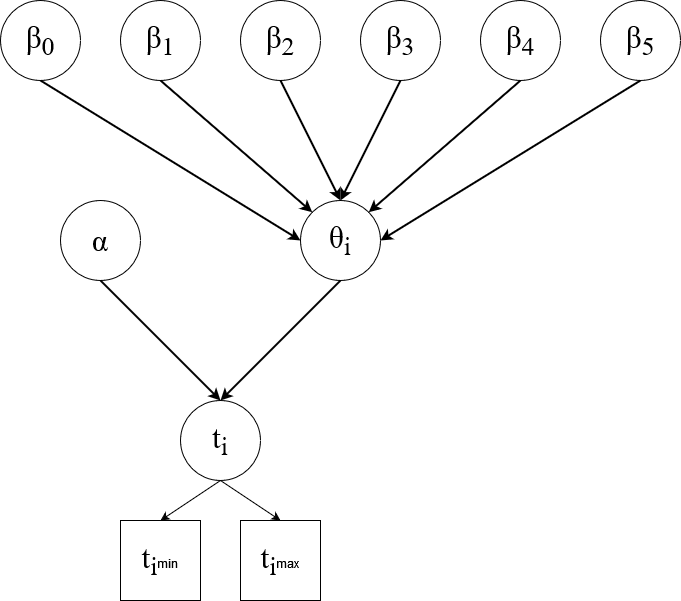
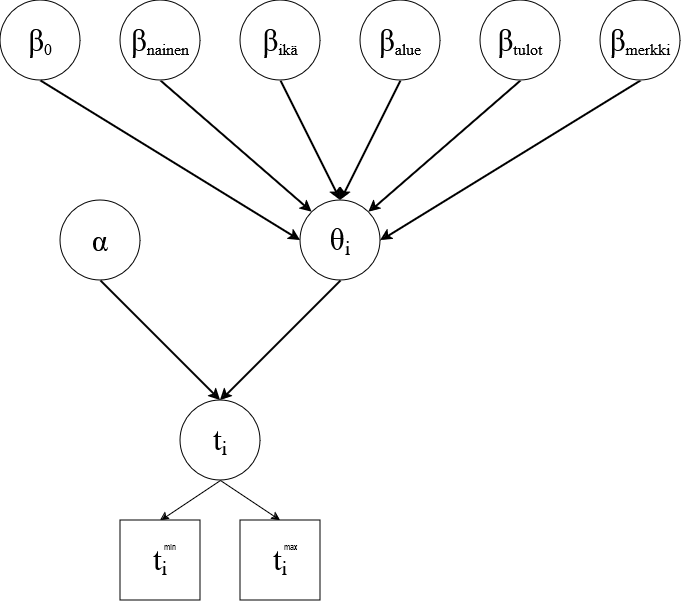
Demo 6 ja HT

diff --git a/Bayes2/HT/Bayes_dag.drawio.html b/Bayes2/HT/Bayes_dag.drawio.html
@@ -1,0 +1,12 @@
+<!--[if IE]><meta http-equiv="X-UA-Compatible" content="IE=5,IE=9" ><![endif]-->
+<!DOCTYPE html>
+<html>
+<head>
+<title>Bayes_dag.drawio.html</title>
+<meta charset="utf-8"/>
+</head>
+<body>
+<div class="mxgraph" style="max-width:100%;border:1px solid transparent;" data-mxgraph="{&quot;highlight&quot;:&quot;#0000ff&quot;,&quot;nav&quot;:true,&quot;resize&quot;:true,&quot;xml&quot;:&quot;&lt;mxfile host=\&quot;app.diagrams.net\&quot; agent=\&quot;Mozilla/5.0 (Windows NT 10.0; Win64; x64; rv:133.0) Gecko/20100101 Firefox/133.0\&quot; scale=\&quot;1\&quot; border=\&quot;0\&quot; version=\&quot;24.9.1\&quot;&gt;&lt;diagram name=\&quot;Sivu-1\&quot; id=\&quot;CsdZyohZoPk9OfCX-mI1\&quot;&gt;&lt;mxGraphModel dx=\&quot;677\&quot; dy=\&quot;416\&quot; grid=\&quot;1\&quot; gridSize=\&quot;10\&quot; guides=\&quot;1\&quot; tooltips=\&quot;1\&quot; connect=\&quot;1\&quot; arrows=\&quot;1\&quot; fold=\&quot;1\&quot; page=\&quot;1\&quot; pageScale=\&quot;1\&quot; pageWidth=\&quot;827\&quot; pageHeight=\&quot;1169\&quot; math=\&quot;0\&quot; shadow=\&quot;0\&quot;&gt;&lt;root&gt;&lt;mxCell id=\&quot;0\&quot;/&gt;&lt;mxCell id=\&quot;1\&quot; parent=\&quot;0\&quot;/&gt;&lt;mxCell id=\&quot;7M6o0OQzYcCYGEPYCa-u-2\&quot; value=\&quot;&amp;lt;font face=&amp;quot;Times New Roman&amp;quot; style=&amp;quot;font-size: 31px;&amp;quot;&amp;gt;β&amp;lt;/font&amp;gt;&amp;lt;font style=&amp;quot;font-size: 19px;&amp;quot; face=&amp;quot;Times New Roman&amp;quot;&amp;gt;&amp;lt;sub&amp;gt;0&amp;lt;/sub&amp;gt;&amp;lt;/font&amp;gt;\&quot; style=\&quot;ellipse;whiteSpace=wrap;html=1;aspect=fixed;\&quot; parent=\&quot;1\&quot; vertex=\&quot;1\&quot;&gt;&lt;mxGeometry x=\&quot;80\&quot; y=\&quot;120\&quot; width=\&quot;80\&quot; height=\&quot;80\&quot; as=\&quot;geometry\&quot;/&gt;&lt;/mxCell&gt;&lt;mxCell id=\&quot;7M6o0OQzYcCYGEPYCa-u-7\&quot; value=\&quot;&amp;lt;font style=&amp;quot;font-size: 31px;&amp;quot; face=&amp;quot;Times New Roman&amp;quot;&amp;gt;θ&amp;lt;/font&amp;gt;&amp;lt;font style=&amp;quot;font-size: 24px;&amp;quot; face=&amp;quot;Times New Roman&amp;quot;&amp;gt;&amp;lt;sub&amp;gt;i&amp;lt;/sub&amp;gt;&amp;lt;/font&amp;gt;\&quot; style=\&quot;ellipse;whiteSpace=wrap;html=1;aspect=fixed;\&quot; parent=\&quot;1\&quot; vertex=\&quot;1\&quot;&gt;&lt;mxGeometry x=\&quot;380\&quot; y=\&quot;320\&quot; width=\&quot;80\&quot; height=\&quot;80\&quot; as=\&quot;geometry\&quot;/&gt;&lt;/mxCell&gt;&lt;mxCell id=\&quot;7M6o0OQzYcCYGEPYCa-u-8\&quot; value=\&quot;&amp;lt;font face=&amp;quot;Times New Roman&amp;quot; style=&amp;quot;font-size: 31px;&amp;quot;&amp;gt;α&amp;lt;/font&amp;gt;\&quot; style=\&quot;ellipse;whiteSpace=wrap;html=1;aspect=fixed;\&quot; parent=\&quot;1\&quot; vertex=\&quot;1\&quot;&gt;&lt;mxGeometry x=\&quot;140\&quot; y=\&quot;320\&quot; width=\&quot;80\&quot; height=\&quot;80\&quot; as=\&quot;geometry\&quot;/&gt;&lt;/mxCell&gt;&lt;mxCell id=\&quot;7M6o0OQzYcCYGEPYCa-u-9\&quot; value=\&quot;&amp;lt;font style=&amp;quot;font-size: 31px;&amp;quot; face=&amp;quot;Times New Roman&amp;quot;&amp;gt;t&amp;lt;/font&amp;gt;&amp;lt;font style=&amp;quot;font-size: 24px;&amp;quot; face=&amp;quot;Times New Roman&amp;quot;&amp;gt;&amp;lt;sub&amp;gt;i&amp;lt;/sub&amp;gt;&amp;lt;/font&amp;gt;\&quot; style=\&quot;ellipse;whiteSpace=wrap;html=1;aspect=fixed;\&quot; parent=\&quot;1\&quot; vertex=\&quot;1\&quot;&gt;&lt;mxGeometry x=\&quot;260\&quot; y=\&quot;520\&quot; width=\&quot;80\&quot; height=\&quot;80\&quot; as=\&quot;geometry\&quot;/&gt;&lt;/mxCell&gt;&lt;mxCell id=\&quot;7M6o0OQzYcCYGEPYCa-u-11\&quot; value=\&quot;\&quot; style=\&quot;endArrow=classic;html=1;rounded=0;exitX=0.5;exitY=1;exitDx=0;exitDy=0;entryX=0;entryY=0.5;entryDx=0;entryDy=0;strokeWidth=2;\&quot; parent=\&quot;1\&quot; source=\&quot;7M6o0OQzYcCYGEPYCa-u-2\&quot; target=\&quot;7M6o0OQzYcCYGEPYCa-u-7\&quot; edge=\&quot;1\&quot;&gt;&lt;mxGeometry width=\&quot;50\&quot; height=\&quot;50\&quot; relative=\&quot;1\&quot; as=\&quot;geometry\&quot;&gt;&lt;mxPoint x=\&quot;390\&quot; y=\&quot;410\&quot; as=\&quot;sourcePoint\&quot;/&gt;&lt;mxPoint x=\&quot;440\&quot; y=\&quot;360\&quot; as=\&quot;targetPoint\&quot;/&gt;&lt;/mxGeometry&gt;&lt;/mxCell&gt;&lt;mxCell id=\&quot;7M6o0OQzYcCYGEPYCa-u-13\&quot; value=\&quot;\&quot; style=\&quot;endArrow=classic;html=1;rounded=0;entryX=0;entryY=0;entryDx=0;entryDy=0;exitX=0.5;exitY=1;exitDx=0;exitDy=0;strokeWidth=2;\&quot; parent=\&quot;1\&quot; source=\&quot;ZkPpFAJNjtpbtPeyBK7T-2\&quot; target=\&quot;7M6o0OQzYcCYGEPYCa-u-7\&quot; edge=\&quot;1\&quot;&gt;&lt;mxGeometry width=\&quot;50\&quot; height=\&quot;50\&quot; relative=\&quot;1\&quot; as=\&quot;geometry\&quot;&gt;&lt;mxPoint x=\&quot;160\&quot; y=\&quot;200\&quot; as=\&quot;sourcePoint\&quot;/&gt;&lt;mxPoint x=\&quot;440\&quot; y=\&quot;360\&quot; as=\&quot;targetPoint\&quot;/&gt;&lt;/mxGeometry&gt;&lt;/mxCell&gt;&lt;mxCell id=\&quot;7M6o0OQzYcCYGEPYCa-u-14\&quot; value=\&quot;\&quot; style=\&quot;endArrow=classic;html=1;rounded=0;entryX=0.5;entryY=0;entryDx=0;entryDy=0;exitX=0.5;exitY=1;exitDx=0;exitDy=0;strokeWidth=2;\&quot; parent=\&quot;1\&quot; target=\&quot;7M6o0OQzYcCYGEPYCa-u-7\&quot; edge=\&quot;1\&quot;&gt;&lt;mxGeometry width=\&quot;50\&quot; height=\&quot;50\&quot; relative=\&quot;1\&quot; as=\&quot;geometry\&quot;&gt;&lt;mxPoint x=\&quot;360\&quot; y=\&quot;200\&quot; as=\&quot;sourcePoint\&quot;/&gt;&lt;mxPoint x=\&quot;506\&quot; y=\&quot;332\&quot; as=\&quot;targetPoint\&quot;/&gt;&lt;/mxGeometry&gt;&lt;/mxCell&gt;&lt;mxCell id=\&quot;7M6o0OQzYcCYGEPYCa-u-16\&quot; value=\&quot;\&quot; style=\&quot;endArrow=classic;html=1;rounded=0;exitX=0.5;exitY=1;exitDx=0;exitDy=0;entryX=0.5;entryY=0;entryDx=0;entryDy=0;strokeWidth=2;\&quot; parent=\&quot;1\&quot; target=\&quot;7M6o0OQzYcCYGEPYCa-u-7\&quot; edge=\&quot;1\&quot;&gt;&lt;mxGeometry width=\&quot;50\&quot; height=\&quot;50\&quot; relative=\&quot;1\&quot; as=\&quot;geometry\&quot;&gt;&lt;mxPoint x=\&quot;480\&quot; y=\&quot;200\&quot; as=\&quot;sourcePoint\&quot;/&gt;&lt;mxPoint x=\&quot;440\&quot; y=\&quot;360\&quot; as=\&quot;targetPoint\&quot;/&gt;&lt;/mxGeometry&gt;&lt;/mxCell&gt;&lt;mxCell id=\&quot;7M6o0OQzYcCYGEPYCa-u-17\&quot; value=\&quot;\&quot; style=\&quot;endArrow=classic;html=1;rounded=0;entryX=1;entryY=0;entryDx=0;entryDy=0;exitX=0.5;exitY=1;exitDx=0;exitDy=0;strokeWidth=2;\&quot; parent=\&quot;1\&quot; target=\&quot;7M6o0OQzYcCYGEPYCa-u-7\&quot; edge=\&quot;1\&quot;&gt;&lt;mxGeometry width=\&quot;50\&quot; height=\&quot;50\&quot; relative=\&quot;1\&quot; as=\&quot;geometry\&quot;&gt;&lt;mxPoint x=\&quot;600\&quot; y=\&quot;200\&quot; as=\&quot;sourcePoint\&quot;/&gt;&lt;mxPoint x=\&quot;440\&quot; y=\&quot;360\&quot; as=\&quot;targetPoint\&quot;/&gt;&lt;/mxGeometry&gt;&lt;/mxCell&gt;&lt;mxCell id=\&quot;7M6o0OQzYcCYGEPYCa-u-18\&quot; value=\&quot;\&quot; style=\&quot;endArrow=classic;html=1;rounded=0;exitX=0.5;exitY=1;exitDx=0;exitDy=0;entryX=1;entryY=0.5;entryDx=0;entryDy=0;endSize=6;startSize=6;jumpSize=6;strokeWidth=2;endFill=1;\&quot; parent=\&quot;1\&quot; target=\&quot;7M6o0OQzYcCYGEPYCa-u-7\&quot; edge=\&quot;1\&quot;&gt;&lt;mxGeometry width=\&quot;50\&quot; height=\&quot;50\&quot; relative=\&quot;1\&quot; as=\&quot;geometry\&quot;&gt;&lt;mxPoint x=\&quot;720\&quot; y=\&quot;200\&quot; as=\&quot;sourcePoint\&quot;/&gt;&lt;mxPoint x=\&quot;440\&quot; y=\&quot;360\&quot; as=\&quot;targetPoint\&quot;/&gt;&lt;/mxGeometry&gt;&lt;/mxCell&gt;&lt;mxCell id=\&quot;7M6o0OQzYcCYGEPYCa-u-19\&quot; value=\&quot;\&quot; style=\&quot;endArrow=classic;html=1;rounded=0;exitX=0.5;exitY=1;exitDx=0;exitDy=0;entryX=0.5;entryY=0;entryDx=0;entryDy=0;strokeWidth=2;\&quot; parent=\&quot;1\&quot; source=\&quot;7M6o0OQzYcCYGEPYCa-u-8\&quot; target=\&quot;7M6o0OQzYcCYGEPYCa-u-9\&quot; edge=\&quot;1\&quot;&gt;&lt;mxGeometry width=\&quot;50\&quot; height=\&quot;50\&quot; relative=\&quot;1\&quot; as=\&quot;geometry\&quot;&gt;&lt;mxPoint x=\&quot;390\&quot; y=\&quot;410\&quot; as=\&quot;sourcePoint\&quot;/&gt;&lt;mxPoint x=\&quot;440\&quot; y=\&quot;360\&quot; as=\&quot;targetPoint\&quot;/&gt;&lt;/mxGeometry&gt;&lt;/mxCell&gt;&lt;mxCell id=\&quot;7M6o0OQzYcCYGEPYCa-u-20\&quot; value=\&quot;\&quot; style=\&quot;endArrow=classic;html=1;rounded=0;entryX=0.5;entryY=0;entryDx=0;entryDy=0;exitX=0.5;exitY=1;exitDx=0;exitDy=0;strokeWidth=2;\&quot; parent=\&quot;1\&quot; source=\&quot;7M6o0OQzYcCYGEPYCa-u-7\&quot; target=\&quot;7M6o0OQzYcCYGEPYCa-u-9\&quot; edge=\&quot;1\&quot;&gt;&lt;mxGeometry width=\&quot;50\&quot; height=\&quot;50\&quot; relative=\&quot;1\&quot; as=\&quot;geometry\&quot;&gt;&lt;mxPoint x=\&quot;470\&quot; y=\&quot;510\&quot; as=\&quot;sourcePoint\&quot;/&gt;&lt;mxPoint x=\&quot;440\&quot; y=\&quot;360\&quot; as=\&quot;targetPoint\&quot;/&gt;&lt;/mxGeometry&gt;&lt;/mxCell&gt;&lt;mxCell id=\&quot;7M6o0OQzYcCYGEPYCa-u-23\&quot; value=\&quot;\&quot; style=\&quot;endArrow=classic;html=1;rounded=0;exitX=0.5;exitY=1;exitDx=0;exitDy=0;entryX=0.5;entryY=0;entryDx=0;entryDy=0;\&quot; parent=\&quot;1\&quot; source=\&quot;7M6o0OQzYcCYGEPYCa-u-9\&quot; edge=\&quot;1\&quot;&gt;&lt;mxGeometry width=\&quot;50\&quot; height=\&quot;50\&quot; relative=\&quot;1\&quot; as=\&quot;geometry\&quot;&gt;&lt;mxPoint x=\&quot;390\&quot; y=\&quot;470\&quot; as=\&quot;sourcePoint\&quot;/&gt;&lt;mxPoint x=\&quot;360\&quot; y=\&quot;640\&quot; as=\&quot;targetPoint\&quot;/&gt;&lt;/mxGeometry&gt;&lt;/mxCell&gt;&lt;mxCell id=\&quot;7M6o0OQzYcCYGEPYCa-u-24\&quot; value=\&quot;\&quot; style=\&quot;endArrow=classic;html=1;rounded=0;exitX=0.5;exitY=1;exitDx=0;exitDy=0;entryX=0.5;entryY=0;entryDx=0;entryDy=0;\&quot; parent=\&quot;1\&quot; source=\&quot;7M6o0OQzYcCYGEPYCa-u-9\&quot; edge=\&quot;1\&quot;&gt;&lt;mxGeometry width=\&quot;50\&quot; height=\&quot;50\&quot; relative=\&quot;1\&quot; as=\&quot;geometry\&quot;&gt;&lt;mxPoint x=\&quot;310\&quot; y=\&quot;610\&quot; as=\&quot;sourcePoint\&quot;/&gt;&lt;mxPoint x=\&quot;240\&quot; y=\&quot;640\&quot; as=\&quot;targetPoint\&quot;/&gt;&lt;/mxGeometry&gt;&lt;/mxCell&gt;&lt;mxCell id=\&quot;7M6o0OQzYcCYGEPYCa-u-25\&quot; value=\&quot;&amp;lt;font style=&amp;quot;font-size: 31px;&amp;quot; face=&amp;quot;Times New Roman&amp;quot;&amp;gt;t&amp;lt;/font&amp;gt;&amp;lt;font style=&amp;quot;font-size: 24px;&amp;quot; face=&amp;quot;Times New Roman&amp;quot;&amp;gt;&amp;lt;sub&amp;gt;i&amp;lt;/sub&amp;gt;&amp;lt;/font&amp;gt;\&quot; style=\&quot;whiteSpace=wrap;html=1;aspect=fixed;\&quot; parent=\&quot;1\&quot; vertex=\&quot;1\&quot;&gt;&lt;mxGeometry x=\&quot;320\&quot; y=\&quot;640\&quot; width=\&quot;80\&quot; height=\&quot;80\&quot; as=\&quot;geometry\&quot;/&gt;&lt;/mxCell&gt;&lt;mxCell id=\&quot;7M6o0OQzYcCYGEPYCa-u-26\&quot; value=\&quot;&amp;lt;font style=&amp;quot;font-size: 31px;&amp;quot; face=&amp;quot;Times New Roman&amp;quot;&amp;gt;t&amp;lt;/font&amp;gt;&amp;lt;font style=&amp;quot;font-size: 24px;&amp;quot; face=&amp;quot;Times New Roman&amp;quot;&amp;gt;&amp;lt;sub&amp;gt;i&amp;lt;/sub&amp;gt;&amp;lt;/font&amp;gt;\&quot; style=\&quot;whiteSpace=wrap;html=1;aspect=fixed;\&quot; parent=\&quot;1\&quot; vertex=\&quot;1\&quot;&gt;&lt;mxGeometry x=\&quot;200\&quot; y=\&quot;640\&quot; width=\&quot;80\&quot; height=\&quot;80\&quot; as=\&quot;geometry\&quot;/&gt;&lt;/mxCell&gt;&lt;mxCell id=\&quot;ZkPpFAJNjtpbtPeyBK7T-2\&quot; value=\&quot;&amp;lt;font face=&amp;quot;Times New Roman&amp;quot; style=&amp;quot;font-size: 31px;&amp;quot;&amp;gt;β&amp;lt;/font&amp;gt;&amp;lt;font style=&amp;quot;font-size: 19px;&amp;quot; face=&amp;quot;Times New Roman&amp;quot;&amp;gt;&amp;lt;sub&amp;gt;nainen&amp;lt;/sub&amp;gt;&amp;lt;/font&amp;gt;\&quot; style=\&quot;ellipse;whiteSpace=wrap;html=1;\&quot; vertex=\&quot;1\&quot; parent=\&quot;1\&quot;&gt;&lt;mxGeometry x=\&quot;200\&quot; y=\&quot;120\&quot; width=\&quot;80\&quot; height=\&quot;80\&quot; as=\&quot;geometry\&quot;/&gt;&lt;/mxCell&gt;&lt;mxCell id=\&quot;ZkPpFAJNjtpbtPeyBK7T-3\&quot; value=\&quot;&amp;lt;font face=&amp;quot;Times New Roman&amp;quot; style=&amp;quot;font-size: 31px;&amp;quot;&amp;gt;β&amp;lt;/font&amp;gt;&amp;lt;font style=&amp;quot;font-size: 19px;&amp;quot; face=&amp;quot;Times New Roman&amp;quot;&amp;gt;&amp;lt;sub&amp;gt;ikä&amp;lt;/sub&amp;gt;&amp;lt;/font&amp;gt;\&quot; style=\&quot;ellipse;whiteSpace=wrap;html=1;\&quot; vertex=\&quot;1\&quot; parent=\&quot;1\&quot;&gt;&lt;mxGeometry x=\&quot;320\&quot; y=\&quot;120\&quot; width=\&quot;80\&quot; height=\&quot;80\&quot; as=\&quot;geometry\&quot;/&gt;&lt;/mxCell&gt;&lt;mxCell id=\&quot;ZkPpFAJNjtpbtPeyBK7T-4\&quot; value=\&quot;&amp;lt;font face=&amp;quot;Times New Roman&amp;quot; style=&amp;quot;font-size: 31px;&amp;quot;&amp;gt;β&amp;lt;/font&amp;gt;&amp;lt;font style=&amp;quot;font-size: 19px;&amp;quot; face=&amp;quot;Times New Roman&amp;quot;&amp;gt;&amp;lt;sub&amp;gt;alue&amp;lt;/sub&amp;gt;&amp;lt;/font&amp;gt;\&quot; style=\&quot;ellipse;whiteSpace=wrap;html=1;\&quot; vertex=\&quot;1\&quot; parent=\&quot;1\&quot;&gt;&lt;mxGeometry x=\&quot;440\&quot; y=\&quot;120\&quot; width=\&quot;80\&quot; height=\&quot;80\&quot; as=\&quot;geometry\&quot;/&gt;&lt;/mxCell&gt;&lt;mxCell id=\&quot;ZkPpFAJNjtpbtPeyBK7T-5\&quot; value=\&quot;&amp;lt;font face=&amp;quot;Times New Roman&amp;quot; style=&amp;quot;font-size: 31px;&amp;quot;&amp;gt;β&amp;lt;/font&amp;gt;&amp;lt;font style=&amp;quot;font-size: 19px;&amp;quot; face=&amp;quot;Times New Roman&amp;quot;&amp;gt;&amp;lt;sub&amp;gt;tulot&amp;lt;/sub&amp;gt;&amp;lt;/font&amp;gt;\&quot; style=\&quot;ellipse;whiteSpace=wrap;html=1;\&quot; vertex=\&quot;1\&quot; parent=\&quot;1\&quot;&gt;&lt;mxGeometry x=\&quot;560\&quot; y=\&quot;120\&quot; width=\&quot;80\&quot; height=\&quot;80\&quot; as=\&quot;geometry\&quot;/&gt;&lt;/mxCell&gt;&lt;mxCell id=\&quot;ZkPpFAJNjtpbtPeyBK7T-6\&quot; value=\&quot;&amp;lt;font face=&amp;quot;Times New Roman&amp;quot; style=&amp;quot;font-size: 31px;&amp;quot;&amp;gt;β&amp;lt;/font&amp;gt;&amp;lt;font style=&amp;quot;font-size: 19px;&amp;quot; face=&amp;quot;Times New Roman&amp;quot;&amp;gt;&amp;lt;sub&amp;gt;merkki&amp;lt;/sub&amp;gt;&amp;lt;/font&amp;gt;\&quot; style=\&quot;ellipse;whiteSpace=wrap;html=1;\&quot; vertex=\&quot;1\&quot; parent=\&quot;1\&quot;&gt;&lt;mxGeometry x=\&quot;680\&quot; y=\&quot;120\&quot; width=\&quot;80\&quot; height=\&quot;80\&quot; as=\&quot;geometry\&quot;/&gt;&lt;/mxCell&gt;&lt;mxCell id=\&quot;ZkPpFAJNjtpbtPeyBK7T-7\&quot; value=\&quot;&amp;lt;font style=&amp;quot;font-size: 8px;&amp;quot;&amp;gt;min&amp;lt;/font&amp;gt;\&quot; style=\&quot;text;html=1;align=center;verticalAlign=middle;whiteSpace=wrap;rounded=0;\&quot; vertex=\&quot;1\&quot; parent=\&quot;1\&quot;&gt;&lt;mxGeometry x=\&quot;220\&quot; y=\&quot;650\&quot; width=\&quot;60\&quot; height=\&quot;30\&quot; as=\&quot;geometry\&quot;/&gt;&lt;/mxCell&gt;&lt;mxCell id=\&quot;ZkPpFAJNjtpbtPeyBK7T-9\&quot; value=\&quot;&amp;lt;font style=&amp;quot;font-size: 8px;&amp;quot;&amp;gt;max&amp;lt;/font&amp;gt;\&quot; style=\&quot;text;html=1;align=center;verticalAlign=middle;whiteSpace=wrap;rounded=0;\&quot; vertex=\&quot;1\&quot; parent=\&quot;1\&quot;&gt;&lt;mxGeometry x=\&quot;340\&quot; y=\&quot;650\&quot; width=\&quot;60\&quot; height=\&quot;30\&quot; as=\&quot;geometry\&quot;/&gt;&lt;/mxCell&gt;&lt;/root&gt;&lt;/mxGraphModel&gt;&lt;/diagram&gt;&lt;/mxfile&gt;&quot;,&quot;toolbar&quot;:&quot;pages zoom layers lightbox&quot;,&quot;page&quot;:0}"></div>
+<script type="text/javascript" src="https://app.diagrams.net/js/viewer-static.min.js"></script>
+</body>
+</html>
